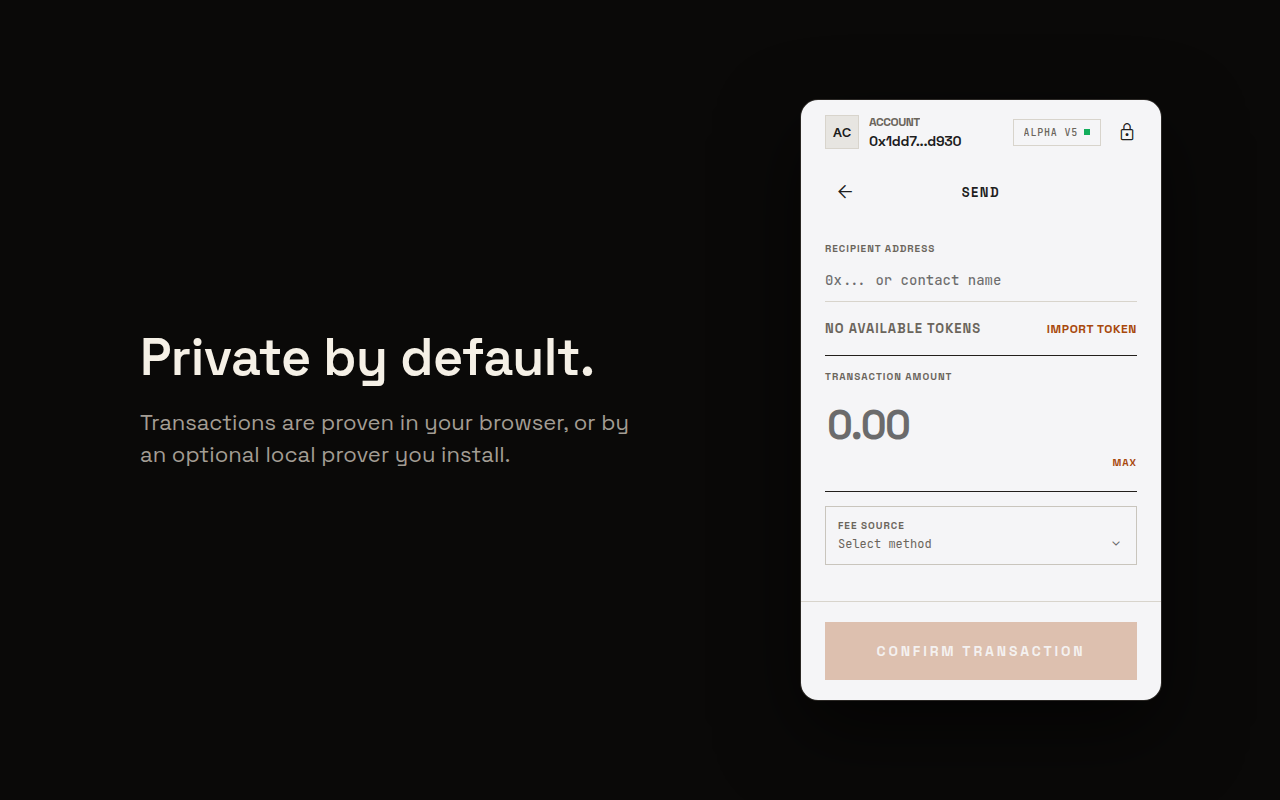
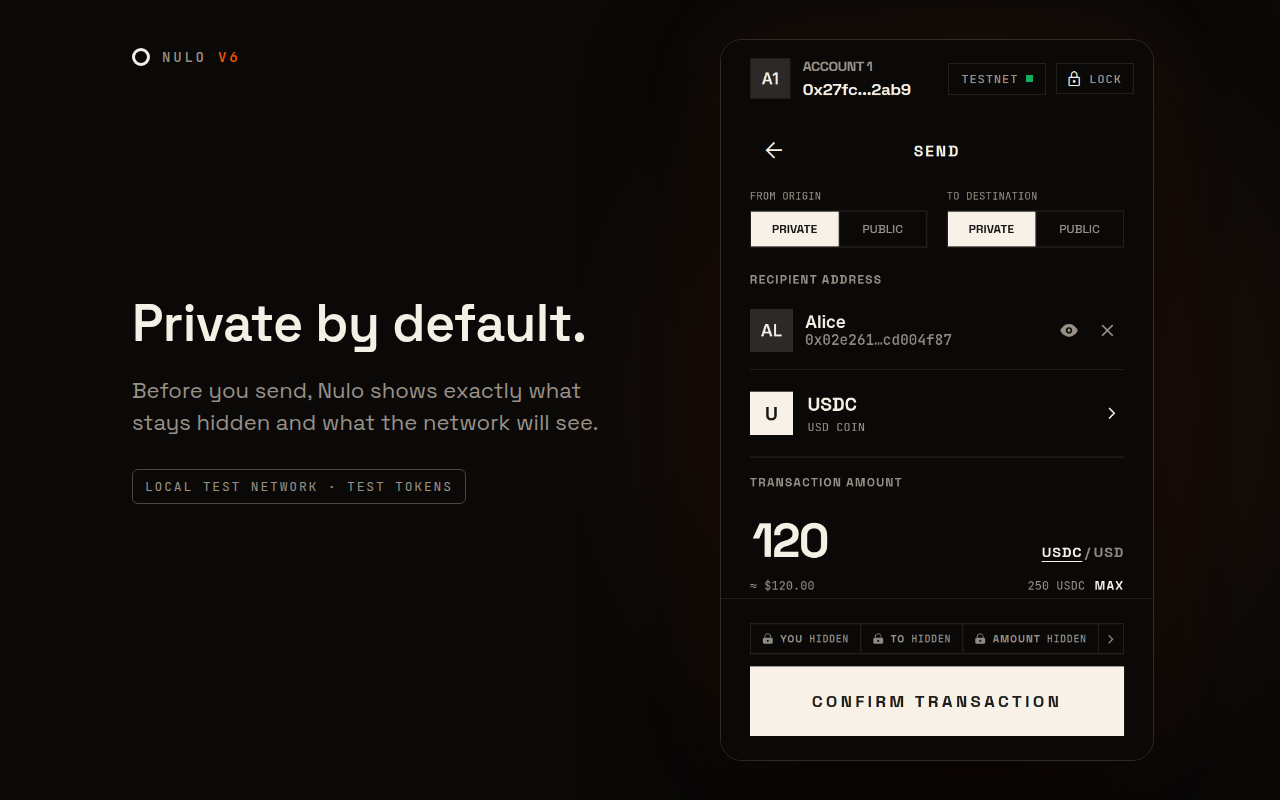
docs(store): short listing copy and labelled screenshot frames
The owner's picks from the store review page. The long description drops to three headed
groups of bullets, about the length of the live wallet listings it was measured against, and
the Firefox summary reuses Chrome's. Every frame now carries a "Local test network · test
tokens" note, because the captures are staged on a local Aztec network with test tokens.

store-art.ts no longer writes captures/.gitkeep: the captures are tracked, so the file only
ever showed up untracked after a render.

Changed region(s): [[0.5625, 0.0625, 0.9062, 0.9375], [0.0938, 0.375, 0.5, 0.625], [0.0938, 0.0625, 0.1875, 0.0938]]

diff --git a/apps/extension/store/templates/frame.html b/apps/extension/store/templates/frame.html
@@ -72,6 +72,18 @@
 				color: #999187;
 				max-width: 500px;
 			}
+			.note {
+				display: inline-block;
+				margin-top: 30px;
+				padding: 8px 12px;
+				border: 1px solid #4a463f;
+				border-radius: 6px;
+				font-family: "JetBrains Mono", monospace;
+				font-size: 13px;
+				letter-spacing: 0.14em;
+				text-transform: uppercase;
+				color: #999187;
+			}
 			.shot {
 				width: 432px;
 				height: 720px;
@@ -94,6 +106,8 @@
 		<div class="copy">
 			<h1>{{title}}</h1>
 			<p>{{caption}}</p>
+			<!-- The captures are staged on a local Aztec network with test tokens; every frame says so. -->
+			<span class="note">Local test network · test tokens</span>
 		</div>
 		<div class="shot"><img src="{{capture}}" alt="" /></div>
 	</body>

diff --git a/apps/extension/scripts/store-art.ts b/apps/extension/scripts/store-art.ts
@@ -5,7 +5,7 @@
 //
 // Usage (from apps/extension): `bun scripts/store-art.ts`
 
-import { existsSync, readFileSync, writeFileSync } from "node:fs"
+import { existsSync, readFileSync } from "node:fs"
 import { resolve } from "node:path"
 import puppeteer from "puppeteer"
 
@@ -86,4 +86,3 @@ for (const [index, { capture, title, caption }] of FRAMES.entries()) {
 	const html = fill(frame, { font, mono, title, caption, capture: dataUri(png, "image/png") })
 	await render(html, 1280, 800, resolve(STORE, `screenshot-${index + 1}-1280x800.png`))
 }
-writeFileSync(resolve(STORE, "captures/.gitkeep"), "")

diff --git a/apps/extension/store/listing.md b/apps/extension/store/listing.md
@@ -4,6 +4,8 @@ What each dashboard field is filled with. `scripts/store-listing.test.ts` holds 
 built manifests (every permission has a justification heading), to `legal/privacy.md` § 6 (the policy
 and the listing name the same permissions), to the stores' length caps, and to the Firefox build's
 data-collection declaration. Edit here, then copy into the dashboards; never the other way round.
+The long description keeps one line per paragraph and per bullet, because both dashboards keep
+newlines.
 
 ## Shared
 
@@ -17,37 +19,22 @@ user approves interact with those accounts. (The full statement: `legal/privacy.
 
 Nothing to see. Everything to own.
 
-Nulo is a wallet for Aztec, a blockchain where your balance and your payments are private unless
-you decide otherwise. Everything is recorded. What can be read is up to you.
+Nulo is a self-custody wallet for Aztec, where your balance and payments are private unless you decide otherwise.
 
-PRIVATE BY DEFAULT, PUBLIC WHEN YOU SAY SO
-Payments are private unless you choose to make one public. Before you send, Nulo shows exactly what
-stays hidden and what the network will see. Your history marks each payment as private or public,
-so you always know which is which.
+PRIVATE BY DEFAULT
+• Send privately or publicly. Before you confirm, Nulo shows what stays hidden.
+• History labels every payment private or public.
+• Proofs are made on your machine: in the browser, or faster with the optional Presto prover.
 
-YOUR MONEY STAYS WITH YOU
-Nulo is self-custody: nobody holds your funds for you. Your keys live on your device, protected by
-your password or your passkey. There is no Nulo server, no account to create and no telemetry.
-Export a backup whenever you want.
+YOURS ALONE
+• Your keys stay on your device, behind your password or passkey.
+• No Nulo server, no account, no telemetry.
+• Back up your profile whenever you want.
 
 APPS HAVE TO ASK
-When a website wants to connect, or to do something with your wallet, Nulo shows you exactly what it
-wants, in plain words, before anything happens. You say yes or no. Settings → Connected Apps lists
-every permission and lets you take it back.
-
-PROOFS MADE ON YOUR MACHINE
-Aztec proves private transactions before they are sent. Nulo makes those proofs right in your
-browser, or faster with Presto, an optional prover you can install on your own computer. Nothing
-about a private transaction is sent to anyone except the node that includes it, in the form the
-protocol defines.
-
-WHAT NULO TALKS TO
-The Aztec node you choose, a price service you can turn off, the public hosts that serve proving
-parameters, the optional local prover, and the apps you approve. Nothing else.
-
-A PREVIEW ON THE AZTEC TESTNET
-Nulo V6 runs on the Aztec testnet with test funds. It is a preview and hasn't been audited yet, so
-tell us what breaks.
+• An app gets no account until you connect it and pick one.
+• Every transaction it proposes waits for your yes.
+• Settings → Connected Apps lists every permission and lets you take it back.
 
 Open source, Apache-2.0: https://github.com/alejoamiras/nulo
 
@@ -177,7 +164,7 @@ match them.
 | Field | Value |
 |---|---|
 | Name | Nulo V6 |
-| Summary | Nothing to see. Everything to own. A wallet for Aztec, where your balance and payments stay private unless you decide otherwise. Your keys stay on your device, and apps have to ask before they do anything with your wallet. |
+| Summary | A wallet for Aztec: your balance and payments stay private unless you decide otherwise. Your keys stay on your device. |
 | Categories | Privacy & Security (AMO's "Other" is "My add-on doesn't fit into any of the categories", exclusive of the rest) |
 | License | Apache-2.0 |
 | Support email | hello@nulo.sh |
